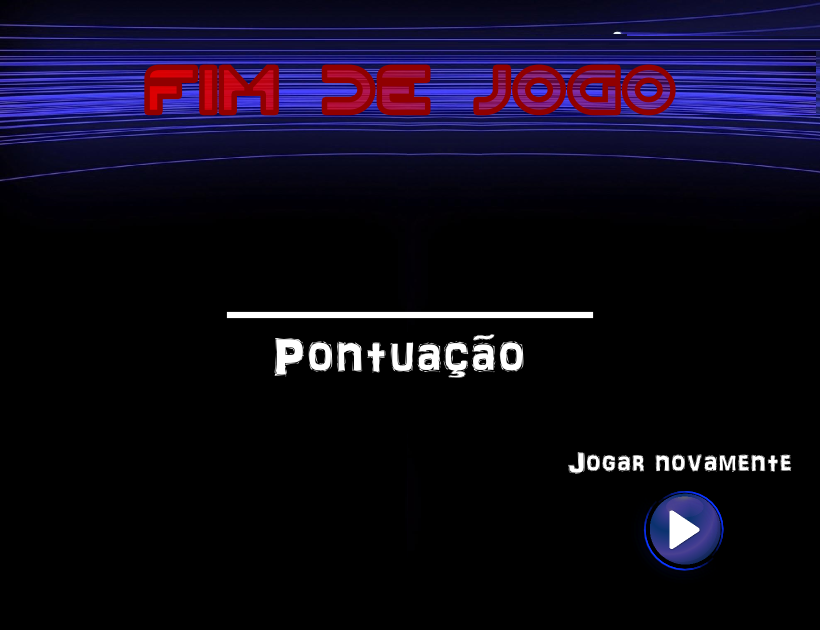
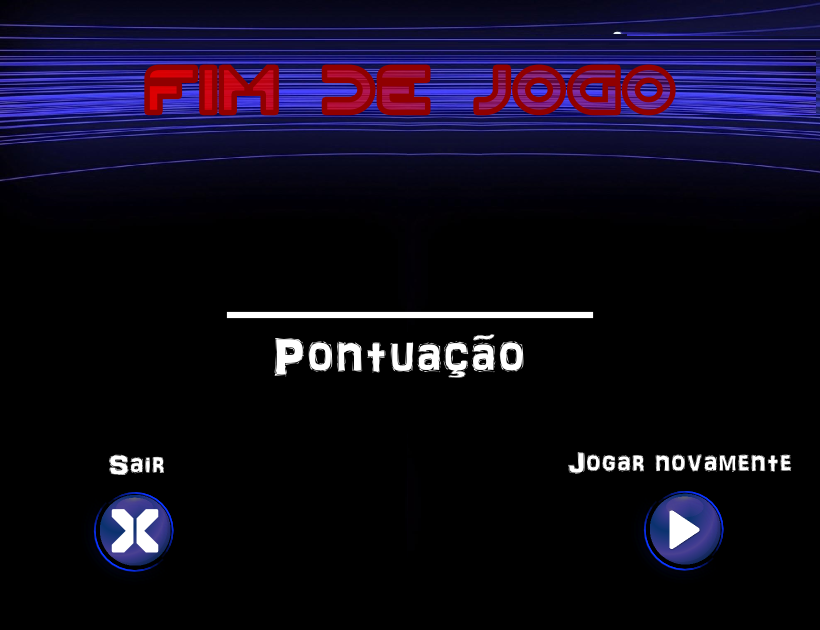
Versão com todas as telas, mas com erros na tela de game over e faltando ainda a inserção do nome do jogador, que por enquanto deve ser ignorada clicando no botão next

Changed region(s): [[0.0915, 0.7841, 0.2134, 0.9048], [0.122, 0.7238, 0.2134, 0.754]]

diff --git a/Tela.cpp b/Tela.cpp
@@ -29,13 +29,13 @@
         setUsuario("str");
     }
 
-    void Tela::showTelaInicial() {
-        bool quit = false;
+    bool Tela::showTelaInicial() {
+        bool quit = false, execute = true;
 
-        while( (quit == false) ) {
+        while( execute && (quit == false) ) {
 
         applySurface( 0, 0, telaInicial, screen );
-        if( SDL_Flip( screen ) == -1 ) return;
+        SDL_Flip( screen );
 
             if( SDL_PollEvent( &event ) ) {
 
@@ -52,7 +52,8 @@
                         else
                             if(playGame())
                                 quit = true;
-
+                            else
+                                execute = false;
                     } else if((tmp.x >= 50 && tmp.x <= 180) && (tmp.y >= 115 && tmp.y <= 355)) {
                         if(showInstrucoes())
                             quit = true;
@@ -66,7 +67,12 @@
                 }
             }
         }
-    clean_up();
+    if(quit) {
+        clean_up();
+        return execute;
+    } else {
+        return quit;
+    }
 }
 
     bool Tela::showConfScreen() {
@@ -177,6 +183,42 @@
         applySurface( 0, 0, telaLevelUp, screen );
         SDL_Flip( screen );
         SDL_Delay(3000);
+    }
+
+    bool Tela::showGameOver() {
+        bool quit = false, execute = true;
+        char pontVetor[6];
+
+        applySurface( 0, 0, telaGameOver, screen );
+        sprintf(pontVetor,"%d",user->getPontuacao());
+        pontosJogador = TTF_RenderText_Solid( font, pontVetor, textColor );
+        applySurface( 330, 260, pontosJogador, screen );
+        SDL_Flip( screen );
+
+        while( execute ) {
+
+            if( SDL_PollEvent( &event ) ) {
+                Ponto tmp;
+
+                //If the left mouse button was pressed
+                if( event.type == SDL_MOUSEBUTTONDOWN && event.button.button == SDL_BUTTON_LEFT) {
+                    //Get the mouse offsets
+                    tmp.x = event.button.x;
+                    tmp.y = event.button.y;
+                    if((tmp.x >= 660 && tmp.x <= 730) && (tmp.y >= 520 && tmp.y <= 600)) {
+                        execute = false; //Play again
+                    } else if((tmp.x >= 90 && tmp.x <= 175) && (tmp.y >= 490 && tmp.y <= 575)) {
+                        quit = true;
+                        return quit;
+                    }
+                } else if( (event.type == SDL_QUIT)  || (event.type == SDL_KEYDOWN && event.key.keysym.sym == SDLK_ESCAPE)) {
+                    //Quit the program
+                    quit = true;
+                    return quit;
+                }
+            }
+        }
+        return execute;
     }
 
 	void Tela::setrects(SDL_Rect * rects, int x, int y) {
@@ -457,7 +499,7 @@
                     sprintf(pontVetor,"%d",user->getPontuacao());
                     pontosJogador = TTF_RenderText_Solid( font, pontVetor, textColor );
                     
-                    showPontuacao(); 
+                    showPontuacao();
 
 					return true;
 				}
@@ -740,6 +782,11 @@
 
 		    while( execute ) {
 		    	changeLevel();
+                if( level == 5 ) {
+                    execute = false;
+                    return execute;
+                }
+
 		        if( SDL_PollEvent( &event ) ) {
 
 		            Ponto tmp;
@@ -1036,35 +1083,34 @@
 			}
 			return false;
 		}
-		bool Tela::changeLevel() {
+
+		void Tela::changeLevel() {
+
 			//if(changedLevel && user->getPontuacao() > 1000 && user->getPontuacao() < 3000) {
-            if(changedLevel && user->getPontuacao() > 100 && user->getPontuacao() < 300) {
+            if(changedLevel && user->getPontuacao() > 100 && user->getPontuacao() < 150) {
 				level = 2;
 				fillMatriz(5);
                 changedLevel = false;
 				showLevelUp();
                 showGame();
 			//} else if(!changedLevel && user->getPontuacao() >= 3000 && user->getPontuacao() < 6000) {
-            } else if(!changedLevel && user->getPontuacao() >= 300 && user->getPontuacao() < 600) {
+            } else if(!changedLevel && user->getPontuacao() >= 150 && user->getPontuacao() < 200) {
 				level = 3;
 				fillMatriz(6);
                 changedLevel = true;
 				showLevelUp();
                 showGame();
 			//} else if(changedLevel && user->getPontuacao() >= 6000 && user->getPontuacao() < 10000) {
-            } else if(changedLevel && user->getPontuacao() >= 600 && user->getPontuacao() < 800) {
+            } else if(changedLevel && user->getPontuacao() >= 250 && user->getPontuacao() < 300) {
 				level = 4;
 				fillMatriz(7);
                 changedLevel = false;
 				showLevelUp();
                 showGame();
 			//} else if(!changedLevel && user->getPontuacao() >= 10000) { // esse é o zerar do jogo
-            } else if(!changedLevel && user->getPontuacao() >= 1000) { // esse é o zerar do jogo
-				level = 5;
-				fillMatriz(7);
-				showGame();
-				changedLevel = true;
+            } else if(!changedLevel && user->getPontuacao() >= 300) { // esse é o zerar do jogo
                 /*SHOW GAME OVER*/
+                level = 5;
 			}
 		}
 

diff --git a/main.cpp b/main.cpp
@@ -17,22 +17,26 @@ int main() {
 
     system("clear");
 
-    //Quit flag
-    bool quit = false;
-
     //Initialize
-    if( jogo->init() == false )
-    {
-        return 1;
-    }
+    if( jogo->init() == false ) return 1;
 
     //Load the files
-    if( jogo->load_files() == false )
-    {
-        return 1;
-    }
+    if( jogo->load_files() == false ) return 1;
 
-    jogo->showTelaInicial();
+    while(!jogo->showTelaInicial()) {
+        if(jogo->showGameOver() == false) {
+            jogo->clean_up();
+            delete jogo;
+            Tela * jogo = new Tela();
+            //Initialize
+            if( jogo->init() == false ) return 1;
+            //Load the files
+            if( jogo->load_files() == false ) return 1;
+            continue;
+        } else {
+            jogo->clean_up();
+        }
+    }
 
     //Inicia o jogo
     //jogo->handle_events();
@@ -40,7 +44,7 @@ int main() {
     //Clean up
     //jogo->clean_up();
 
-    std::cout << "Sua pontuacao foi: " << jogo->getPontuacao() << std::endl;
+    //std::cout << "Sua pontuacao foi: " << jogo->getPontuacao() << std::endl;
 
     delete jogo;
 

diff --git a/Tela.h b/Tela.h
@@ -120,11 +120,12 @@
             SDL_Color textColor;
 
 				Tela(); // Construtor Padrão
-                void showTelaInicial();
+                bool showTelaInicial();
                 bool showConfScreen();
                 bool showInstrucoes();
                 bool showIDscreen();
                 void showLevelUp();
+                bool showGameOver();
 				void fillMatriz(int n);
 				void setrects(SDL_Rect * rects, int x, int y);
 				// metódo GET
@@ -179,7 +180,7 @@
                 void showScreen();
 
                 bool testMove(); // Algoritmos que buscará as possível jogadas
-                bool changeLevel(); //  para mudança das fases
+                void changeLevel(); //  para mudança das fases
 
                 SDL_Surface * carregar_imagem( std::string filename );
 
